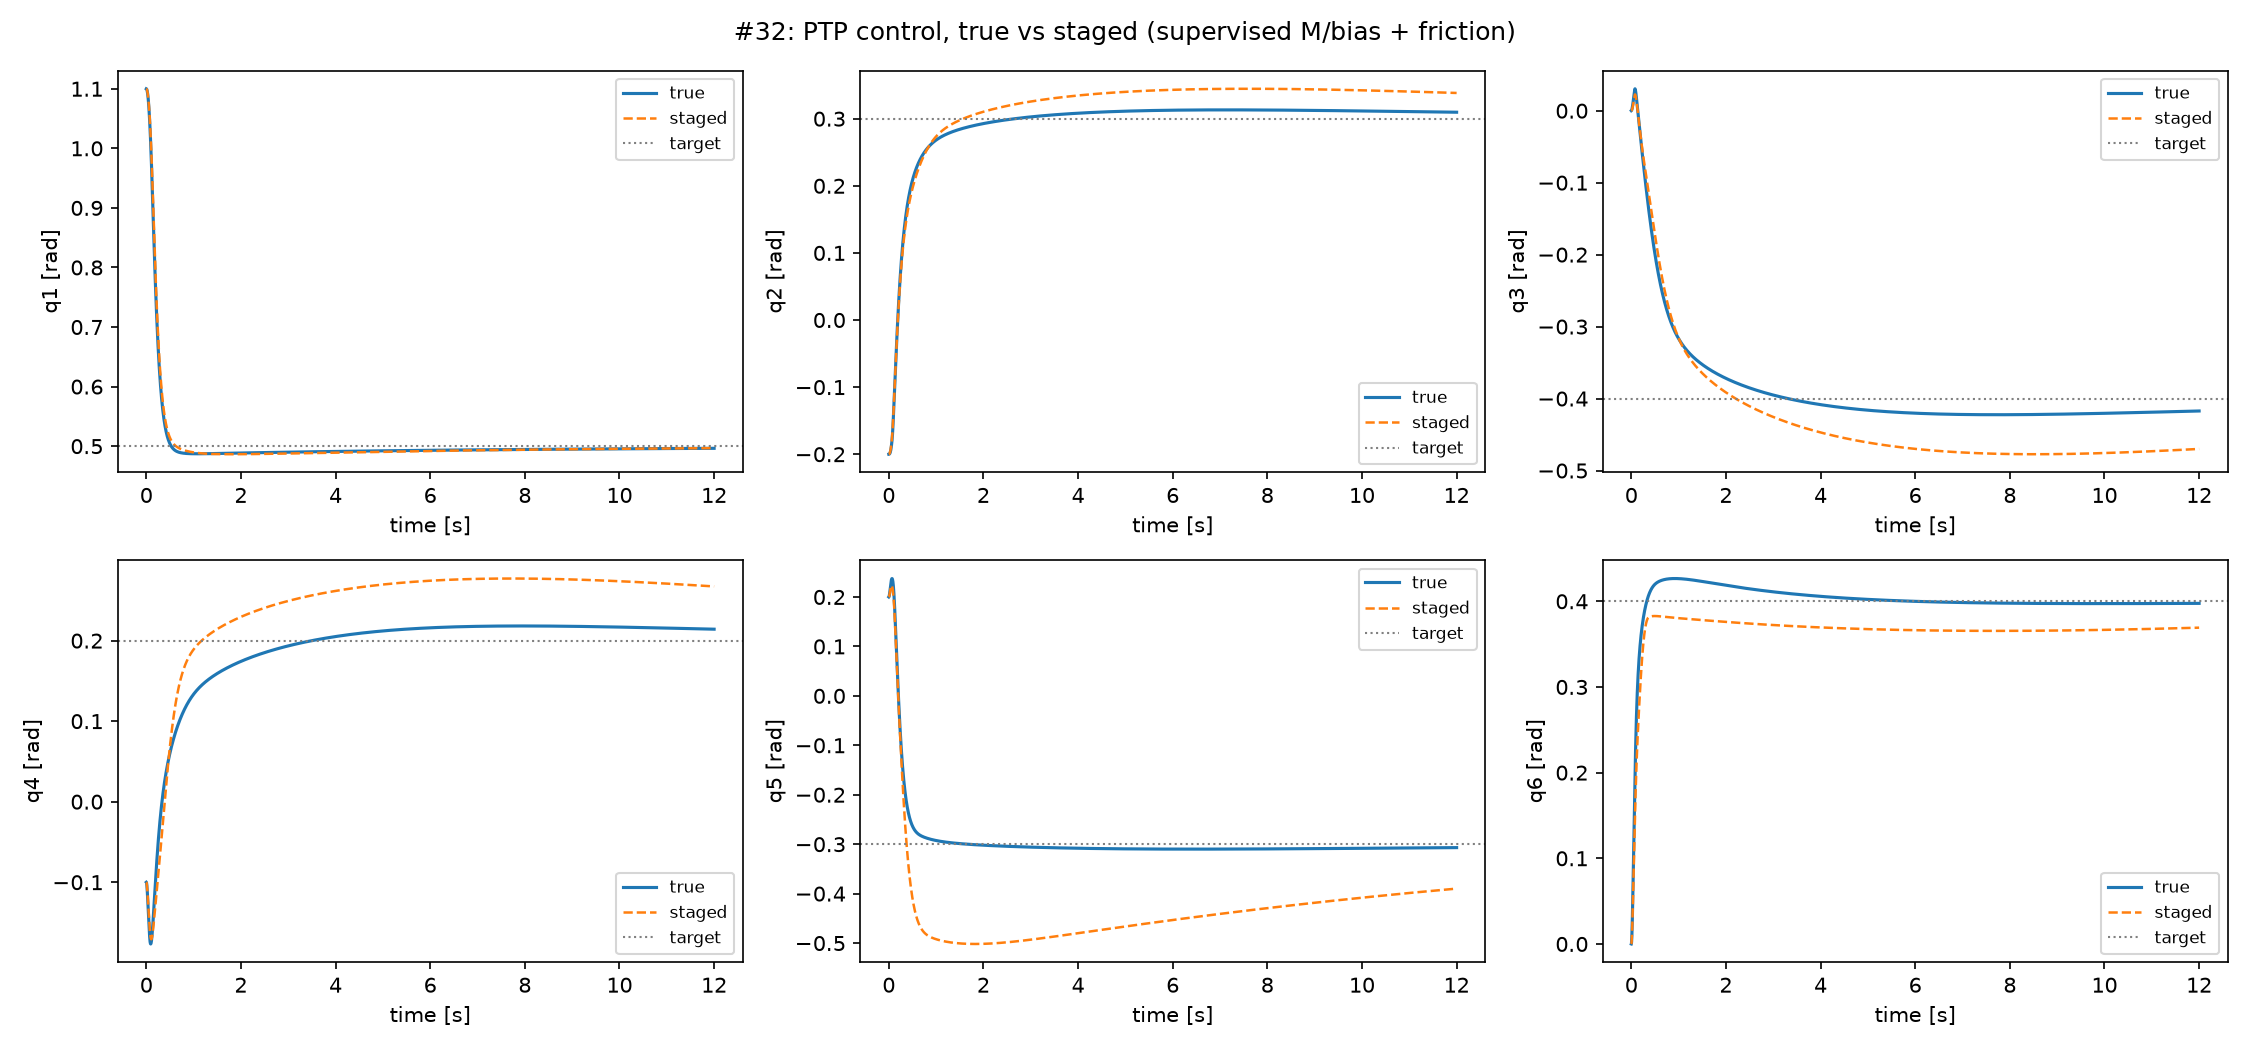
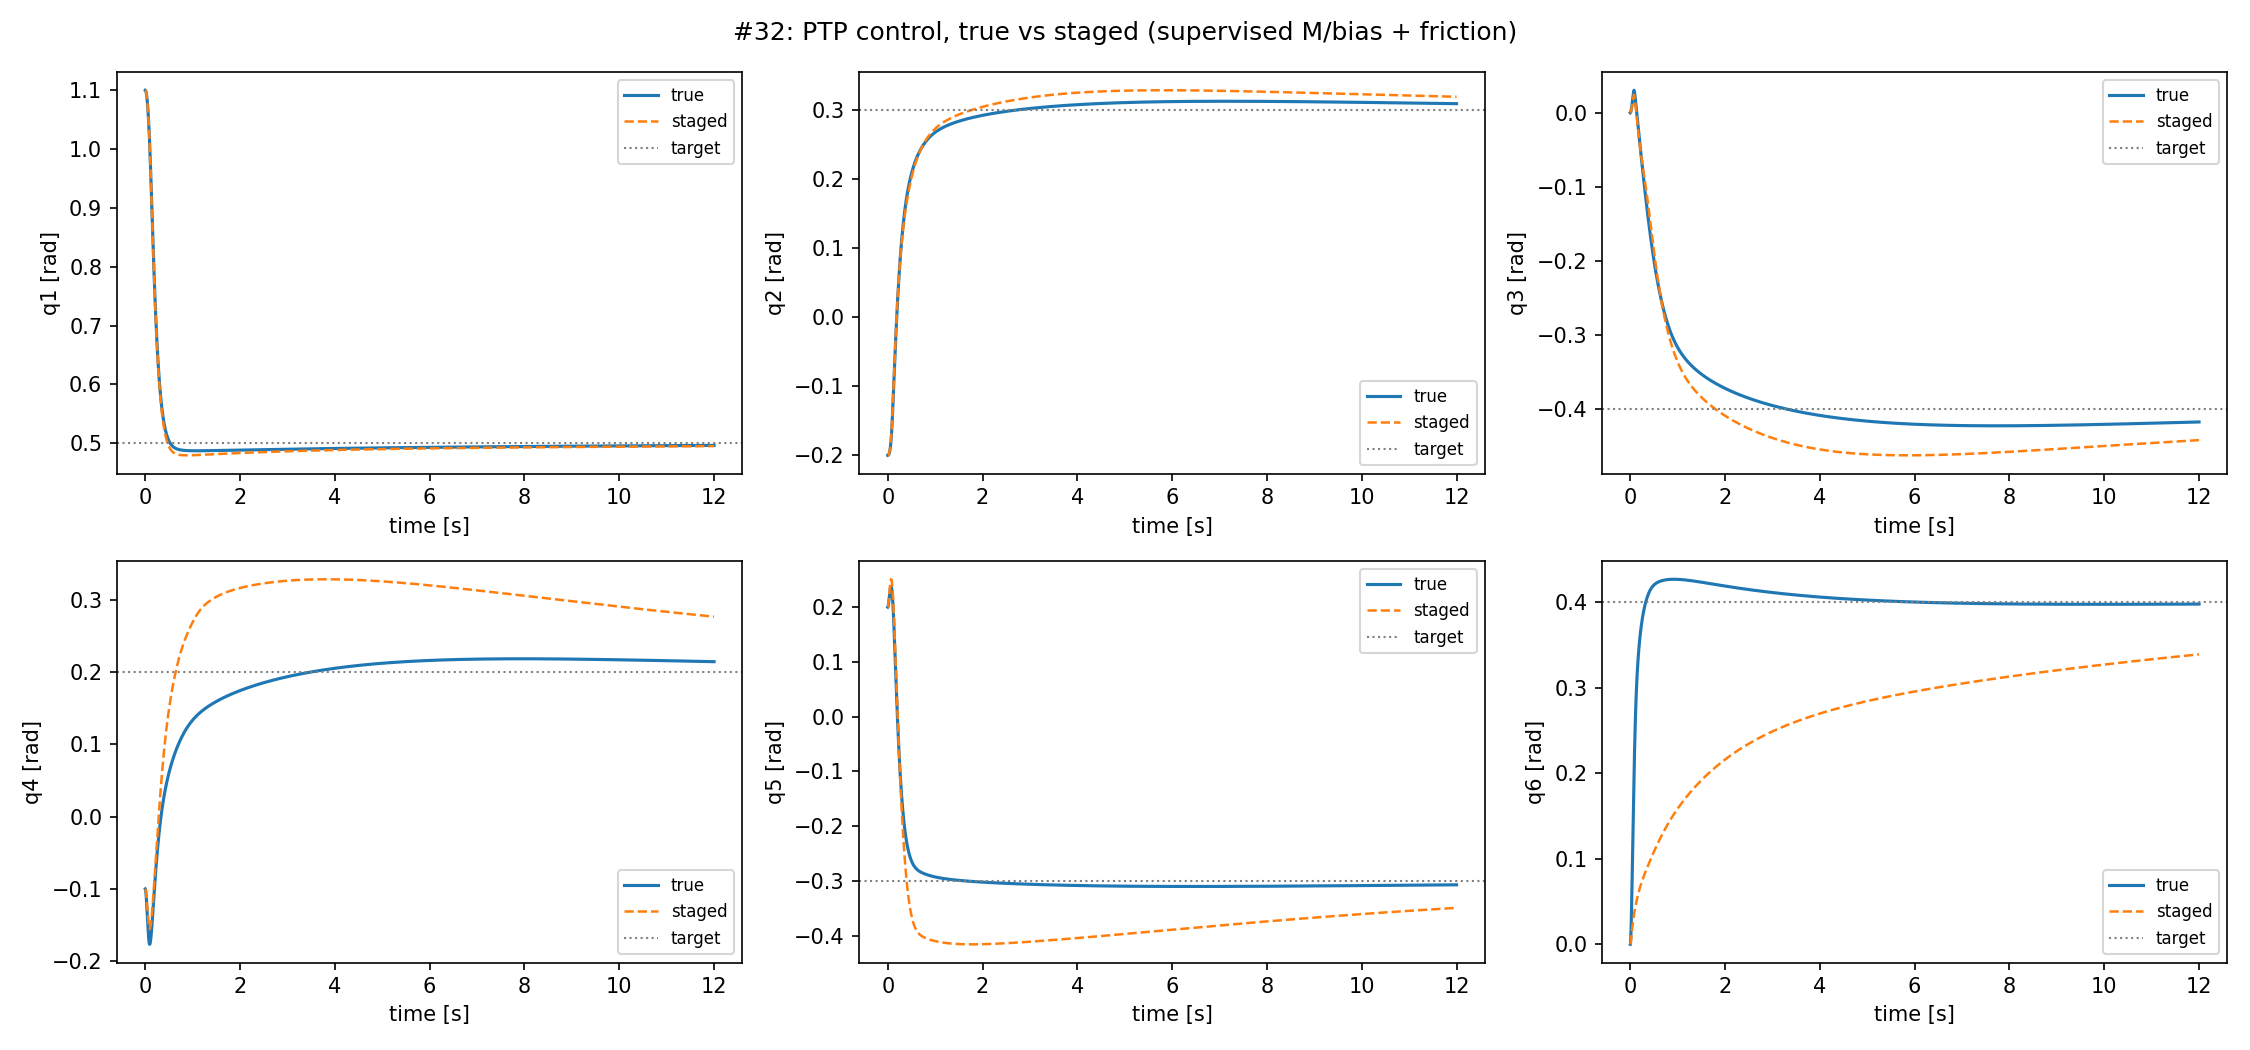
#34: bias_netをshared trunk + per-joint head化、単体精度は改善も全体は悪化
実装・学習・評価はCodex(codex-companion task、--writeモード)に委譲。

#32で判明した「6出力共有MLP(_make_mlp(18,6,64,2))では正規化しても
全関節を同時に高精度化できない」制約を解消するため、bias_netを共有
トランク(18->64->64)+関節ごとの独立head(64->32->1)を持つ
PerJointBiasNetクラスに変更した(src/model.py)。既存のpublicインター
フェース(bias_net(encode_state(state)) -> (...,6))は維持したため、
呼び出し側スクリプトの変更は不要。

直接教師あり事前学習でのbias_net関節別相対誤差はq1-q5で大幅に改善した
(q1: 76%->28%, q2: 24%->13%, q3: 25%->14%, q4: 36%->26%, q5: 65%->32%)
が、q6だけはほぼ変化しなかった(63%->64%)。開ループRMSE(0.2秒)も
zero torque 2.86->1.90、random torque 3.34->2.58と改善した。

しかしこの改善したbias_netを凍結して摩擦係数のみを学習する段階2の
カリキュラム学習では、val_lossが0.0098->0.048に悪化し、PTP制御成功率も
12秒で1/2->0/2に悪化した(過渡応答ではq5が新たに大きくオーバーシュート)。
bias_net単体の精度向上が、摩擦係数を学習する段階2の最適化ランドスケープ
を変化させ、より悪い局所解に収束するようになったと推測される(未検証)。

サブモジュール単体の精度改善が全体パイプラインの実用精度改善を保証しない
具体例として記録した(README教訓15、#30の教訓と対応)。

tests/test_lightweight_model.pyのbias_net内部構造(旧: Sequential添字
アクセス)に依存したテストをPerJointBiasNetのtrunk/heads属性を使うよう
修正。

Claude-Session: https://claude.ai/code/session_01Rvrf6mcbh1UrexApn66z2b

diff --git a/src/model.py b/src/model.py
@@ -61,6 +61,26 @@ def _make_mlp(in_dim: int, out_dim: int, hidden_dim: int, n_hidden_layers: int) 
     return nn.Sequential(*layers)
 
 
+class PerJointBiasNet(nn.Module):
+    """共有トランクで状態特徴を作り、関節ごとの独立headでbiasを出力する。"""
+
+    def __init__(self, in_dim: int, n_joints: int, hidden_dim: int, n_hidden_layers: int):
+        super().__init__()
+        trunk_layers: list[nn.Module] = [nn.Linear(in_dim, hidden_dim), nn.Tanh()]
+        for _ in range(n_hidden_layers - 1):
+            trunk_layers += [nn.Linear(hidden_dim, hidden_dim), nn.Tanh()]
+        self.trunk = nn.Sequential(*trunk_layers)
+
+        head_hidden_dim = max(1, hidden_dim // 2)
+        self.heads = nn.ModuleList(
+            _make_mlp(hidden_dim, 1, head_hidden_dim, 1) for _ in range(n_joints)
+        )
+
+    def forward(self, x: torch.Tensor) -> torch.Tensor:
+        features = self.trunk(x)
+        return torch.cat([head(features) for head in self.heads], dim=-1)
+
+
 def _dh_transform_torch(a: float, alpha: float, d: float, theta: torch.Tensor) -> tuple[torch.Tensor, torch.Tensor]:
     """修正DH変換(physics.dh_transformのtorch版)。回転行列Rと並進pのみ返す
     (RNEAでは4x4同次変換ではなくR,pの組で十分なため)。
@@ -343,7 +363,7 @@ class LightweightGrayBoxModel(AutoregressiveModel):
     ):
         super().__init__()
         self.mass_net = _make_mlp(2 * N_JOINTS, _N_TRIL, hidden_dim, n_hidden_layers)
-        self.bias_net = _make_mlp(STATE_ENC_DIM, N_JOINTS, hidden_dim, n_hidden_layers)
+        self.bias_net = PerJointBiasNet(STATE_ENC_DIM, N_JOINTS, hidden_dim, n_hidden_layers)
         self.log_c_viscous = nn.Parameter(torch.zeros(N_JOINTS))
         self.log_c_coulomb = nn.Parameter(torch.zeros(N_JOINTS))
         self.dt = dt

diff --git a/src/pretrain_mass_bias.py b/src/pretrain_mass_bias.py
@@ -132,7 +132,12 @@ def train_bias_net(model: LightweightGrayBoxModel) -> tuple[float, float]:
     with torch.no_grad():
         val_pred = model.bias_net(encode_state(state_val))
         rel_err = (val_pred - bias_val_t).norm() / bias_val_t.norm()
+        joint_rel_err = (val_pred - bias_val_t).norm(dim=0) / bias_val_t.norm(dim=0)
     print(f"[bias_net] final val relative error = {rel_err.item():.4f}")
+    joint_summary = " ".join(
+        f"q{i + 1}={joint_rel_err[i].item():.4f}" for i in range(N_JOINTS)
+    )
+    print(f"[bias_net] final val relative error by joint: {joint_summary}")
     return epoch_loss, val_loss
 
 

diff --git a/tests/test_lightweight_model.py b/tests/test_lightweight_model.py
@@ -24,4 +24,5 @@ def test_step_shape_and_gradient_flow():
     loss = out.pow(2).sum()
     loss.backward()
     assert model.mass_net[0].weight.grad is not None
-    assert model.bias_net[0].weight.grad is not None
+    assert model.bias_net.trunk[0].weight.grad is not None
+    assert model.bias_net.heads[0][0].weight.grad is not None

diff --git a/README.md b/README.md
@@ -143,6 +143,23 @@ M(q) q̈ = tau - bias(q,q̇) - friction(q̇)
   目標から外れて戻る挙動)。M(q)は直接教師ありなら高精度に学習できる一方、
   bias(q,q̇)(コリオリ項・重力項)は関節間の振幅差が大きく、単一の小さな
   MLPで全関節を同時に高精度化するのは本質的に難しいことが分かった。
+- **軽量NNの精度改善(bias_netのshared trunk + per-joint head化、#34)**:
+  #32で判明した「6出力共有MLPでは正規化しても全関節を同時に高精度化
+  できない」という制約を解消するため、`bias_net`を共有トランク
+  (`18→64→64`)+ 関節ごとの独立head(`64→32→1`)構造に変更した
+  (実装・学習・評価はCodexに委譲)。直接教師あり事前学習でのbias_net
+  関節別相対誤差は、q1(76%→28%)・q2(24%→13%)・q3(25%→14%)・
+  q4(36%→26%)・q5(65%→32%)と大幅に改善したが、q6だけはほぼ
+  変化しなかった(63%→64%)。開ループRMSE(0.2秒)もzero torque
+  2.86→1.90、random torque 3.34→2.58と改善した。しかし摩擦係数の
+  段階的カリキュラム学習のval_lossは0.0098→0.048に悪化し、PTP制御は
+  6秒・12秒とも成功率0/2(#32は12秒で1/2成功)に悪化するという、
+  bias_net単体の精度とは逆方向の結果になった。過渡応答ではq5がq3方向に
+  引きずられるように大きくオーバーシュートし目標から遠ざかっており、
+  bias_net自体の精度向上が、摩擦のみを学習する段階2の最適化ランドスケープ
+  を変化させ、より悪い局所解に落ちるようになったと推測される(未検証)。
+  「個々の要素(bias_netの関節別誤差)の改善」が「全体のパイプライン
+  (段階的学習+閉ループ制御)の改善」に直結しない具体例となった。
 
 ## 教訓
 
@@ -334,6 +351,22 @@ M(q) q̈ = tau - bias(q,q̇) - friction(q̇)
     解決する」と単純に考えず、(a) 振幅差の原因が真に無視できない物理量の
     差なのか、(b) 正規化後に数値的に安定か、(c) モデル容量が全成分を
     同時に満たせるだけあるか、を個別に確認する必要がある。
+
+15. **サブモジュール単体の精度指標が改善しても、それが使われるパイプライン
+    全体(下流の学習・制御)の精度改善を保証しない**(#34): 教訓14の
+    トレードオフ(bias_net正規化で手首関節は改善するが腕関節q1が悪化)を
+    解消するため、`bias_net`を共有トランク+関節ごとの独立headの構造に
+    変更した。直接教師あり事前学習でのbias_net単体の関節別相対誤差は
+    q1-q5で大幅に改善した(例: q1 76%→28%、q5 65%→32%)。しかし、この
+    改善したbias_netを凍結して摩擦係数だけを学習する段階2のカリキュラム
+    学習では、val_lossが0.0098→0.048に悪化し、PTP制御の成功率も
+    12秒で1/2→0/2に悪化した。過渡応答ではq5が新たに大きくオーバーシュート
+    するようになっており、bias_net単体の精度向上が段階2の最適化
+    ランドスケープを変化させ、摩擦係数がより悪い局所解に収束するように
+    なったと推測される(未検証)。#30(データ量を増やしても学習損失は
+    改善したが実用指標は改善しなかった)と同様に、パイプラインの一部分
+    だけを切り出して評価・改善しても、全体としての実用精度は独立に検証
+    しなければ分からないことを再確認した。
 
 ## 使い方
 
